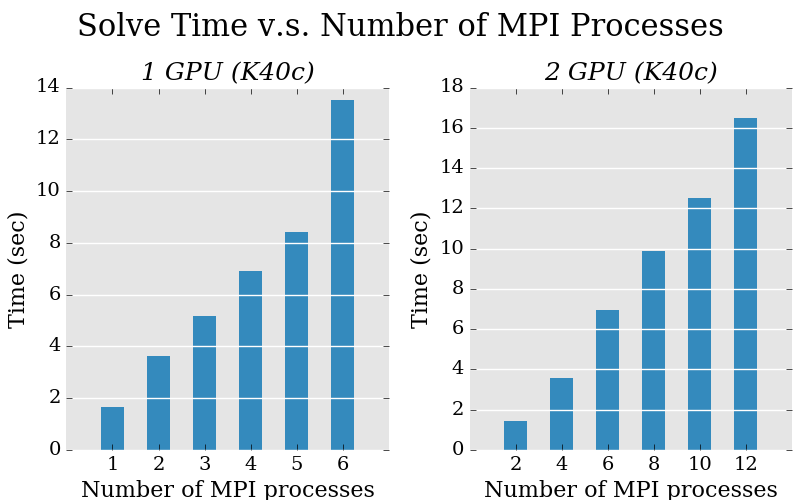
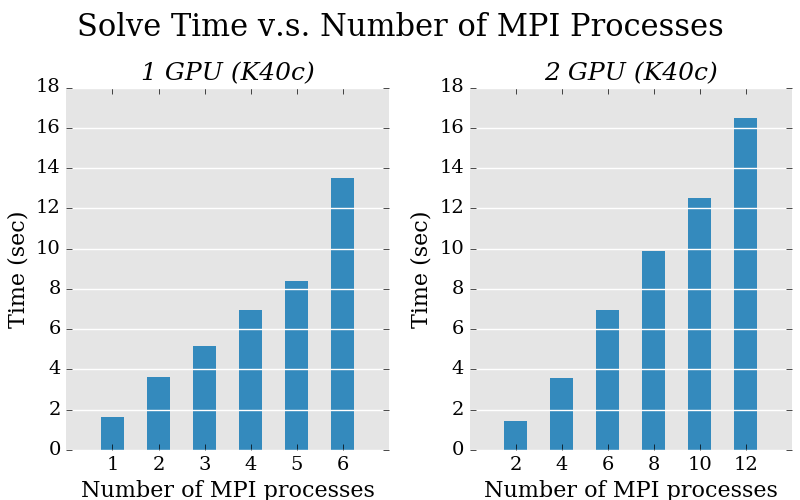
Modify the y scales for figures of tests

diff --git a/GTC2016/plots/scripts/rawAmgXMultiRanks.py b/GTC2016/plots/scripts/rawAmgXMultiRanks.py
@@ -4,7 +4,7 @@ from matplotlib import gridspec
 
 pyplot.style.use('style')
 
-def plotRawAmgXMultiRanks(nRanks, solveTime, titles, figName):
+def plotRawAmgXMultiRanks(nRanks, solveTime, titles, figName, ylim=None):
 
     fig = pyplot.figure(figsize=(8, 5), dpi=150)
     gs = gridspec.GridSpec(1, 2, width_ratios=[1, 1])
@@ -23,6 +23,8 @@ def plotRawAmgXMultiRanks(nRanks, solveTime, titles, figName):
                 fontweight="medium", fontstyle="italic")
 
         ax.set_ylabel("Time (sec)", fontsize=16)
+        if ylim != None and type(ylim) == list:
+            ax.set_ylim(ylim)
         ax.tick_params(axis="y", labelsize="14")
         ax.yaxis.grid(zorder=0)
 
@@ -57,9 +59,9 @@ solveTime = [
 
 titles = ["1 GPU (K40c)", "2 GPU (K40c)"]
 
-figName = "rawAmgXMultiRanks_Aggregation.png"
+figName = "../rawAmgXMultiRanks_Aggregation.png"
 
-plotRawAmgXMultiRanks(nRanks, solveTime, titles, figName)
+plotRawAmgXMultiRanks(nRanks, solveTime, titles, figName, [0, 18])
 
 
 '''
@@ -72,6 +74,6 @@ solveTime = [
         numpy.array(
             [0.908612, 1.333168, 1.649151, 2.324669, 2.456639, 3.572393])]
 
-figName = "rawAmgXMultiRanks_Classical.png"
+figName = "../rawAmgXMultiRanks_Classical.png"
 
-plotRawAmgXMultiRanks(nRanks, solveTime, titles, figName)
+plotRawAmgXMultiRanks(nRanks, solveTime, titles, figName, [0, 4])

diff --git a/GTC2016/plots/scripts/newAmgXMultiRanks.py b/GTC2016/plots/scripts/newAmgXMultiRanks.py
@@ -4,7 +4,7 @@ from matplotlib import gridspec
 
 pyplot.style.use('style')
 
-def plotNewAmgXMultiRanks(nRanks, solveTime, titles, figName):
+def plotNewAmgXMultiRanks(nRanks, solveTime, titles, figName, ylim=None):
 
     fig = pyplot.figure(figsize=(8, 5), dpi=150)
     gs = gridspec.GridSpec(1, 2, width_ratios=[1, 1])
@@ -29,6 +29,8 @@ def plotNewAmgXMultiRanks(nRanks, solveTime, titles, figName):
                 fontweight="medium", fontstyle="italic")
 
         ax.set_ylabel("Time (sec)", fontsize=16)
+        if ylim != None and type(ylim) == list:
+            ax.set_ylim(ylim)
         ax.tick_params(axis="y", labelsize="14")
         ax.yaxis.grid(zorder=0)
 
@@ -71,9 +73,9 @@ solveTime = {
 
 titles = ["1 GPU (K40c)", "2 GPU (K40c)"]
 
-figName = "newAmgXMultiRanks_Aggregation.png"
+figName = "../newAmgXMultiRanks_Aggregation.png"
 
-plotNewAmgXMultiRanks(nRanks, solveTime, titles, figName)
+plotNewAmgXMultiRanks(nRanks, solveTime, titles, figName, [0, 18])
 
 
 '''
@@ -91,6 +93,6 @@ solveTime = {
                     0.904388, 1.149481, 0.915134, 1.225759])]}
 
 
-figName = "newAmgXMultiRanks_Classical.png"
+figName = "../newAmgXMultiRanks_Classical.png"
 
-plotNewAmgXMultiRanks(nRanks, solveTime, titles, figName)
+plotNewAmgXMultiRanks(nRanks, solveTime, titles, figName, [0, 4])
